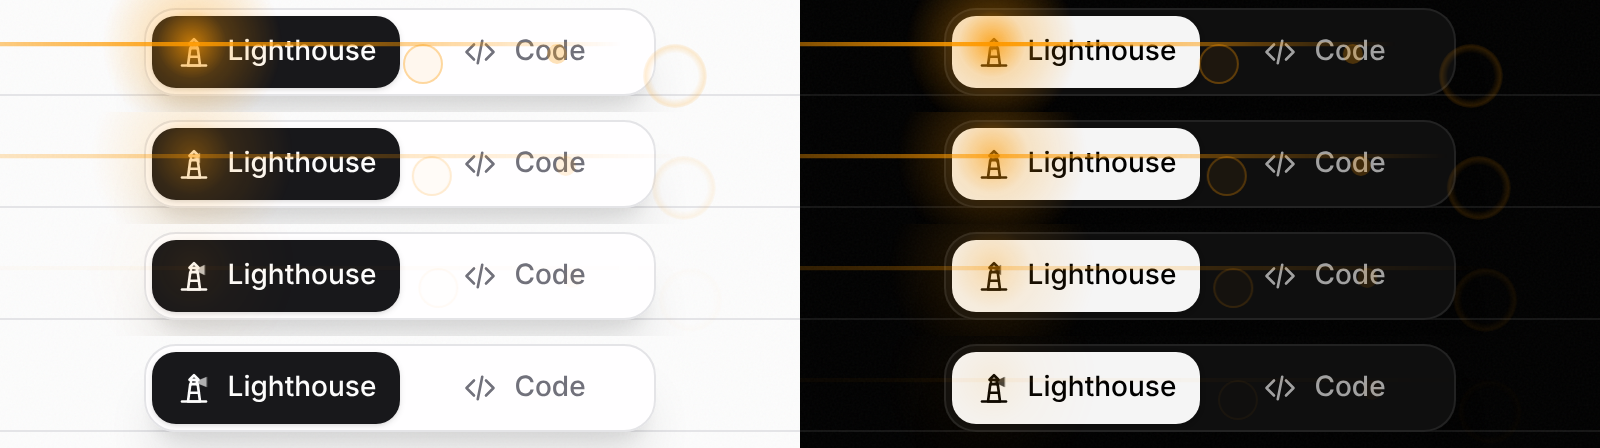
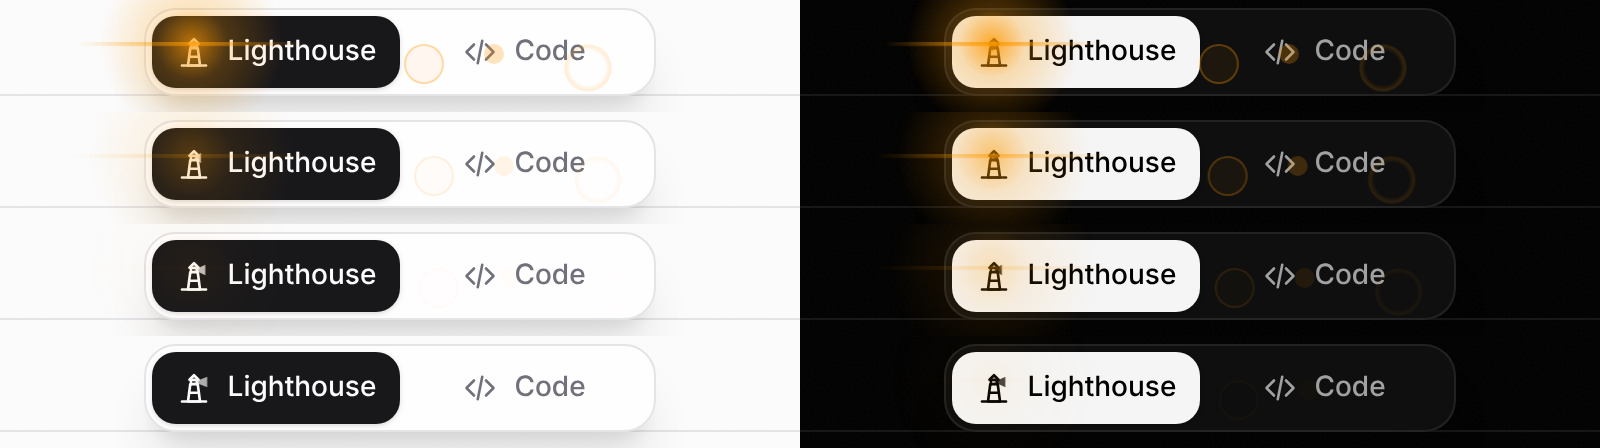
fix(web): prototype lighthouse flare streak and lens ghosts stay close to the island
Claude-Session: https://claude.ai/code/session_01MgnAhKKrFbv2bkjf8HZXYG

diff --git a/apps/web/src/components/prototype/LighthouseIsland.tsx b/apps/web/src/components/prototype/LighthouseIsland.tsx
@@ -84,10 +84,10 @@ function LighthouseFlare() {
       )}
     >
       <span className="absolute size-24 -translate-1/2 rounded-full bg-radial from-warning/90 from-0% via-warning/30 via-25% to-transparent to-65% opacity-0 motion-safe:group-has-[[data-lh]:hover]/island:animate-lighthouse-bloom motion-safe:group-has-[[data-lh]:focus-visible]/island:animate-lighthouse-bloom" />
-      <span className="absolute h-0.5 w-104 -translate-1/2 rounded-full bg-linear-to-r from-transparent via-warning to-transparent opacity-0 motion-safe:group-has-[[data-lh]:hover]/island:animate-lighthouse-streak motion-safe:group-has-[[data-lh]:focus-visible]/island:animate-lighthouse-streak" />
+      <span className="absolute h-0.5 w-28 -translate-1/2 rounded-full bg-linear-to-r from-transparent via-warning/80 to-transparent opacity-0 motion-safe:group-has-[[data-lh]:hover]/island:animate-lighthouse-streak motion-safe:group-has-[[data-lh]:focus-visible]/island:animate-lighthouse-streak" />
       <span className="absolute left-26 size-5 -translate-1/2 rounded-full border border-warning/50 bg-warning/10 opacity-0 motion-safe:group-has-[[data-lh]:hover]/island:animate-lighthouse-ghost motion-safe:group-has-[[data-lh]:focus-visible]/island:animate-lighthouse-ghost" />
-      <span className="absolute left-44 size-2.5 -translate-1/2 rounded-full bg-warning/40 opacity-0 motion-safe:group-has-[[data-lh]:hover]/island:animate-lighthouse-ghost motion-safe:group-has-[[data-lh]:focus-visible]/island:animate-lighthouse-ghost" />
-      <span className="absolute left-56 size-8 -translate-1/2 rounded-full bg-radial from-transparent from-50% via-warning/25 via-65% to-transparent to-75% opacity-0 motion-safe:group-has-[[data-lh]:hover]/island:animate-lighthouse-ghost motion-safe:group-has-[[data-lh]:focus-visible]/island:animate-lighthouse-ghost" />
+      <span className="absolute left-36 size-2.5 -translate-1/2 rounded-full bg-warning/40 opacity-0 motion-safe:group-has-[[data-lh]:hover]/island:animate-lighthouse-ghost motion-safe:group-has-[[data-lh]:focus-visible]/island:animate-lighthouse-ghost" />
+      <span className="absolute left-46 size-6 -translate-1/2 rounded-full bg-radial from-transparent from-50% via-warning/25 via-65% to-transparent to-75% opacity-0 motion-safe:group-has-[[data-lh]:hover]/island:animate-lighthouse-ghost motion-safe:group-has-[[data-lh]:focus-visible]/island:animate-lighthouse-ghost" />
     </span>
   );
 }

diff --git a/apps/web/src/index.css b/apps/web/src/index.css
@@ -421,7 +421,7 @@ html[data-mobile-composer-route-transition="true"]::view-transition-old(t3-mobil
     }
   }
   @keyframes lighthouse-streak {
-    /* The anamorphic streak through the lamp, wider than the island. */
+    /* A short anamorphic streak through the lamp. */
     0%,
     16% {
       opacity: 0;
@@ -434,7 +434,7 @@ html[data-mobile-composer-route-transition="true"]::view-transition-old(t3-mobil
     40%,
     100% {
       opacity: 0;
-      scale: 1.3 1;
+      scale: 1.15 1;
     }
   }
   @keyframes lighthouse-ghost {
